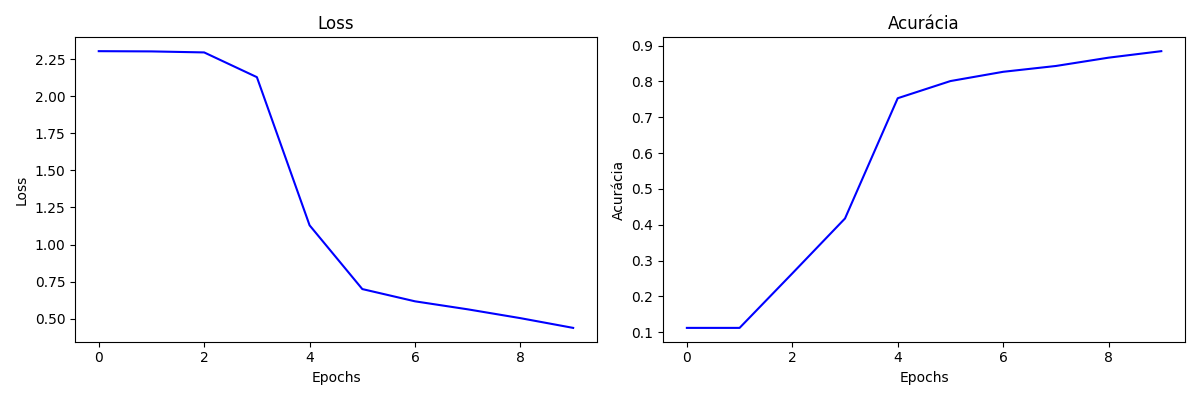
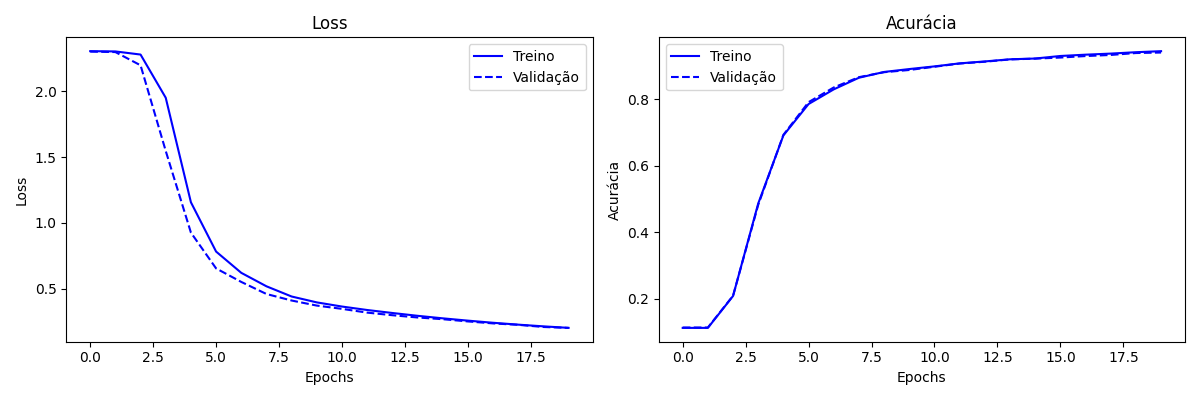
feat: ajustes no treino (10 para 20 epocas) e novo grafico (treino vs validacao) no matplotlib

diff --git a/mlp/network.py b/mlp/network.py
@@ -55,9 +55,11 @@ class MLP:
                 dA = dZ @ self.weights[i].T
                 dZ = dA * relu_derivative(self.Zs[i - 1])
     # Embaralha os dados e divide em batches
-    def fit(self, X, y, optimizer, epochs=10, batch_size=64):
+    def fit(self, X, y, optimizer, epochs=10, batch_size=64, X_val=None, y_val=None):
         self.history_loss = []
         self.history_acc = []
+        self.history_val_loss = []
+        self.history_val_acc = []
 
         for epoch in range(epochs):
             # Embaralha os dados
@@ -76,14 +78,24 @@ class MLP:
                 optimizer.step(self)
 
                 total_loss += loss
-            
+
             loss_media = total_loss / (len(X) // batch_size)
             acc = self.accuracy(X, y)
 
             self.history_loss.append(loss_media)
             self.history_acc.append(acc)
 
-            print(f"Epoch {epoch + 1}/{epochs} - Loss: {loss_media:.4f} - Acc: {acc:.4f}")
+            log = f"Epoch {epoch + 1}/{epochs} - Loss: {loss_media:.4f} - Acc: {acc:.4f}"
+
+            if X_val is not None and y_val is not None:
+                val_probs = self.forward(X_val)
+                val_loss = cross_entropy(y_val, val_probs)
+                val_acc = self.accuracy(X_val, y_val)
+                self.history_val_loss.append(val_loss)
+                self.history_val_acc.append(val_acc)
+                log += f" - Val Loss: {val_loss:.4f} - Val Acc: {val_acc:.4f}"
+
+            print(log)
 
     # Compara a classe com a maior probabilidade com o rótulo real
     def predict(self, X):

diff --git a/README.md b/README.md
@@ -59,20 +59,20 @@ Saída             10 neurônios  + Softmax
 **Por que essa arquitetura:**
 - 2 camadas ocultas permitem aprender representações mais abstratas dos dígitos
 - ReLU evita o problema do gradiente desaparecendo e é computacionalmente eficiente
-- 128 → 64 neurônios reduz progressivamente a dimensionalidade até os 10 classes de saída
+- 128 para 64 neurônios reduz progressivamente a dimensionalidade até os 10 classes de saída
 
 ---
 
 ## Resultados
 
-**Acurácia final no conjunto de teste (lr=0.1):** 97.44%
+**Acurácia final no conjunto de teste (lr=0.1):** 97.33%
 
 ### Comparação de configurações
 
-| Configuração | Loss (epoch 10) | Acurácia (epoch 10) |
-|--------------|-----------------|----------------------|
-| lr = 0.01    | 0.4378          | 88.32%                 |
-| lr = 0.1     | 0.0442           | 97.44%               |
+| Configuração | Loss treino (epoch 20) | Acc treino (epoch 20) | Val Loss (epoch 20) | Val Acc (epoch 20) |
+|--------------|------------------------|------------------------|----------------------|--------------------|
+| lr = 0.01    | 0.2034                 | 94.49%                 | 0.2032               | 94.08%             |
+| lr = 0.1     | 0.0340                 | 99.06%                 | 0.0866               | 97.33%             |
 
 #### Primeira configuração (lr=0.01)
 
